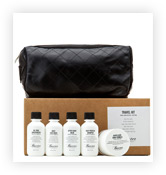
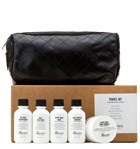
Исправления по сетке
Внёс исправления по картинкам... В футере адрес исправлю позже, чтобы
без br было

diff --git a/catalog-item.html b/catalog-item.html
@@ -54,16 +54,16 @@
             <div class="item-content clearfix">
                 <div class="gallery">
                   <div class="gallery-main-img">
-                    <img class="gallery-img" src="img/shop-item1.jpg" alt="Набор для путешествий" width="486" height="524">
+                    <img class="gallery-img" src="img/shop-item1.jpg" alt="Набор для путешествий" width="460" height="498">
                   </div>
                   <div class="gallery-small-img">
-                    <img class="gallery-img" src="img/shop-item2.jpg" alt="Набор для путешествий" width="166" height="175">
+                    <img class="gallery-img" src="img/shop-item2.jpg" alt="Набор для путешествий" width="140" height="149">
                   </div>
                   <div class="gallery-small-img">
-                    <img class="gallery-img" src="img/shop-item3.jpg" alt="Набор для путешествий" width="166" height="175">
+                    <img class="gallery-img" src="img/shop-item3.jpg" alt="Набор для путешествий" width="140" height="149">
                   </div>
                   <div class="gallery-small-img">
-                    <img class="gallery-img" src="img/shop-item4.jpg" alt="Набор для путешествий" width="166" height="175">
+                    <img class="gallery-img" src="img/shop-item4.jpg" alt="Набор для путешествий" width="140" height="149"">
                   </div>
                 </div>
                 <div class="full-description">

diff --git a/css/style.css b/css/style.css
@@ -137,7 +137,7 @@ header {
 
 .gallery-main-img {
   max-width: 460px;
-  max-height: 500px;
+  max-height: 498px;
   overflow: hidden;
   margin-bottom: 20px;
 }
@@ -145,7 +145,7 @@ header {
 .gallery-small-img {
   display: inline-block;
   max-width: 140px;
-  max-height: 150px;
+  max-height: 149px;
   overflow: hidden;
   margin-right: 20px;
   margin-bottom: 50px;
